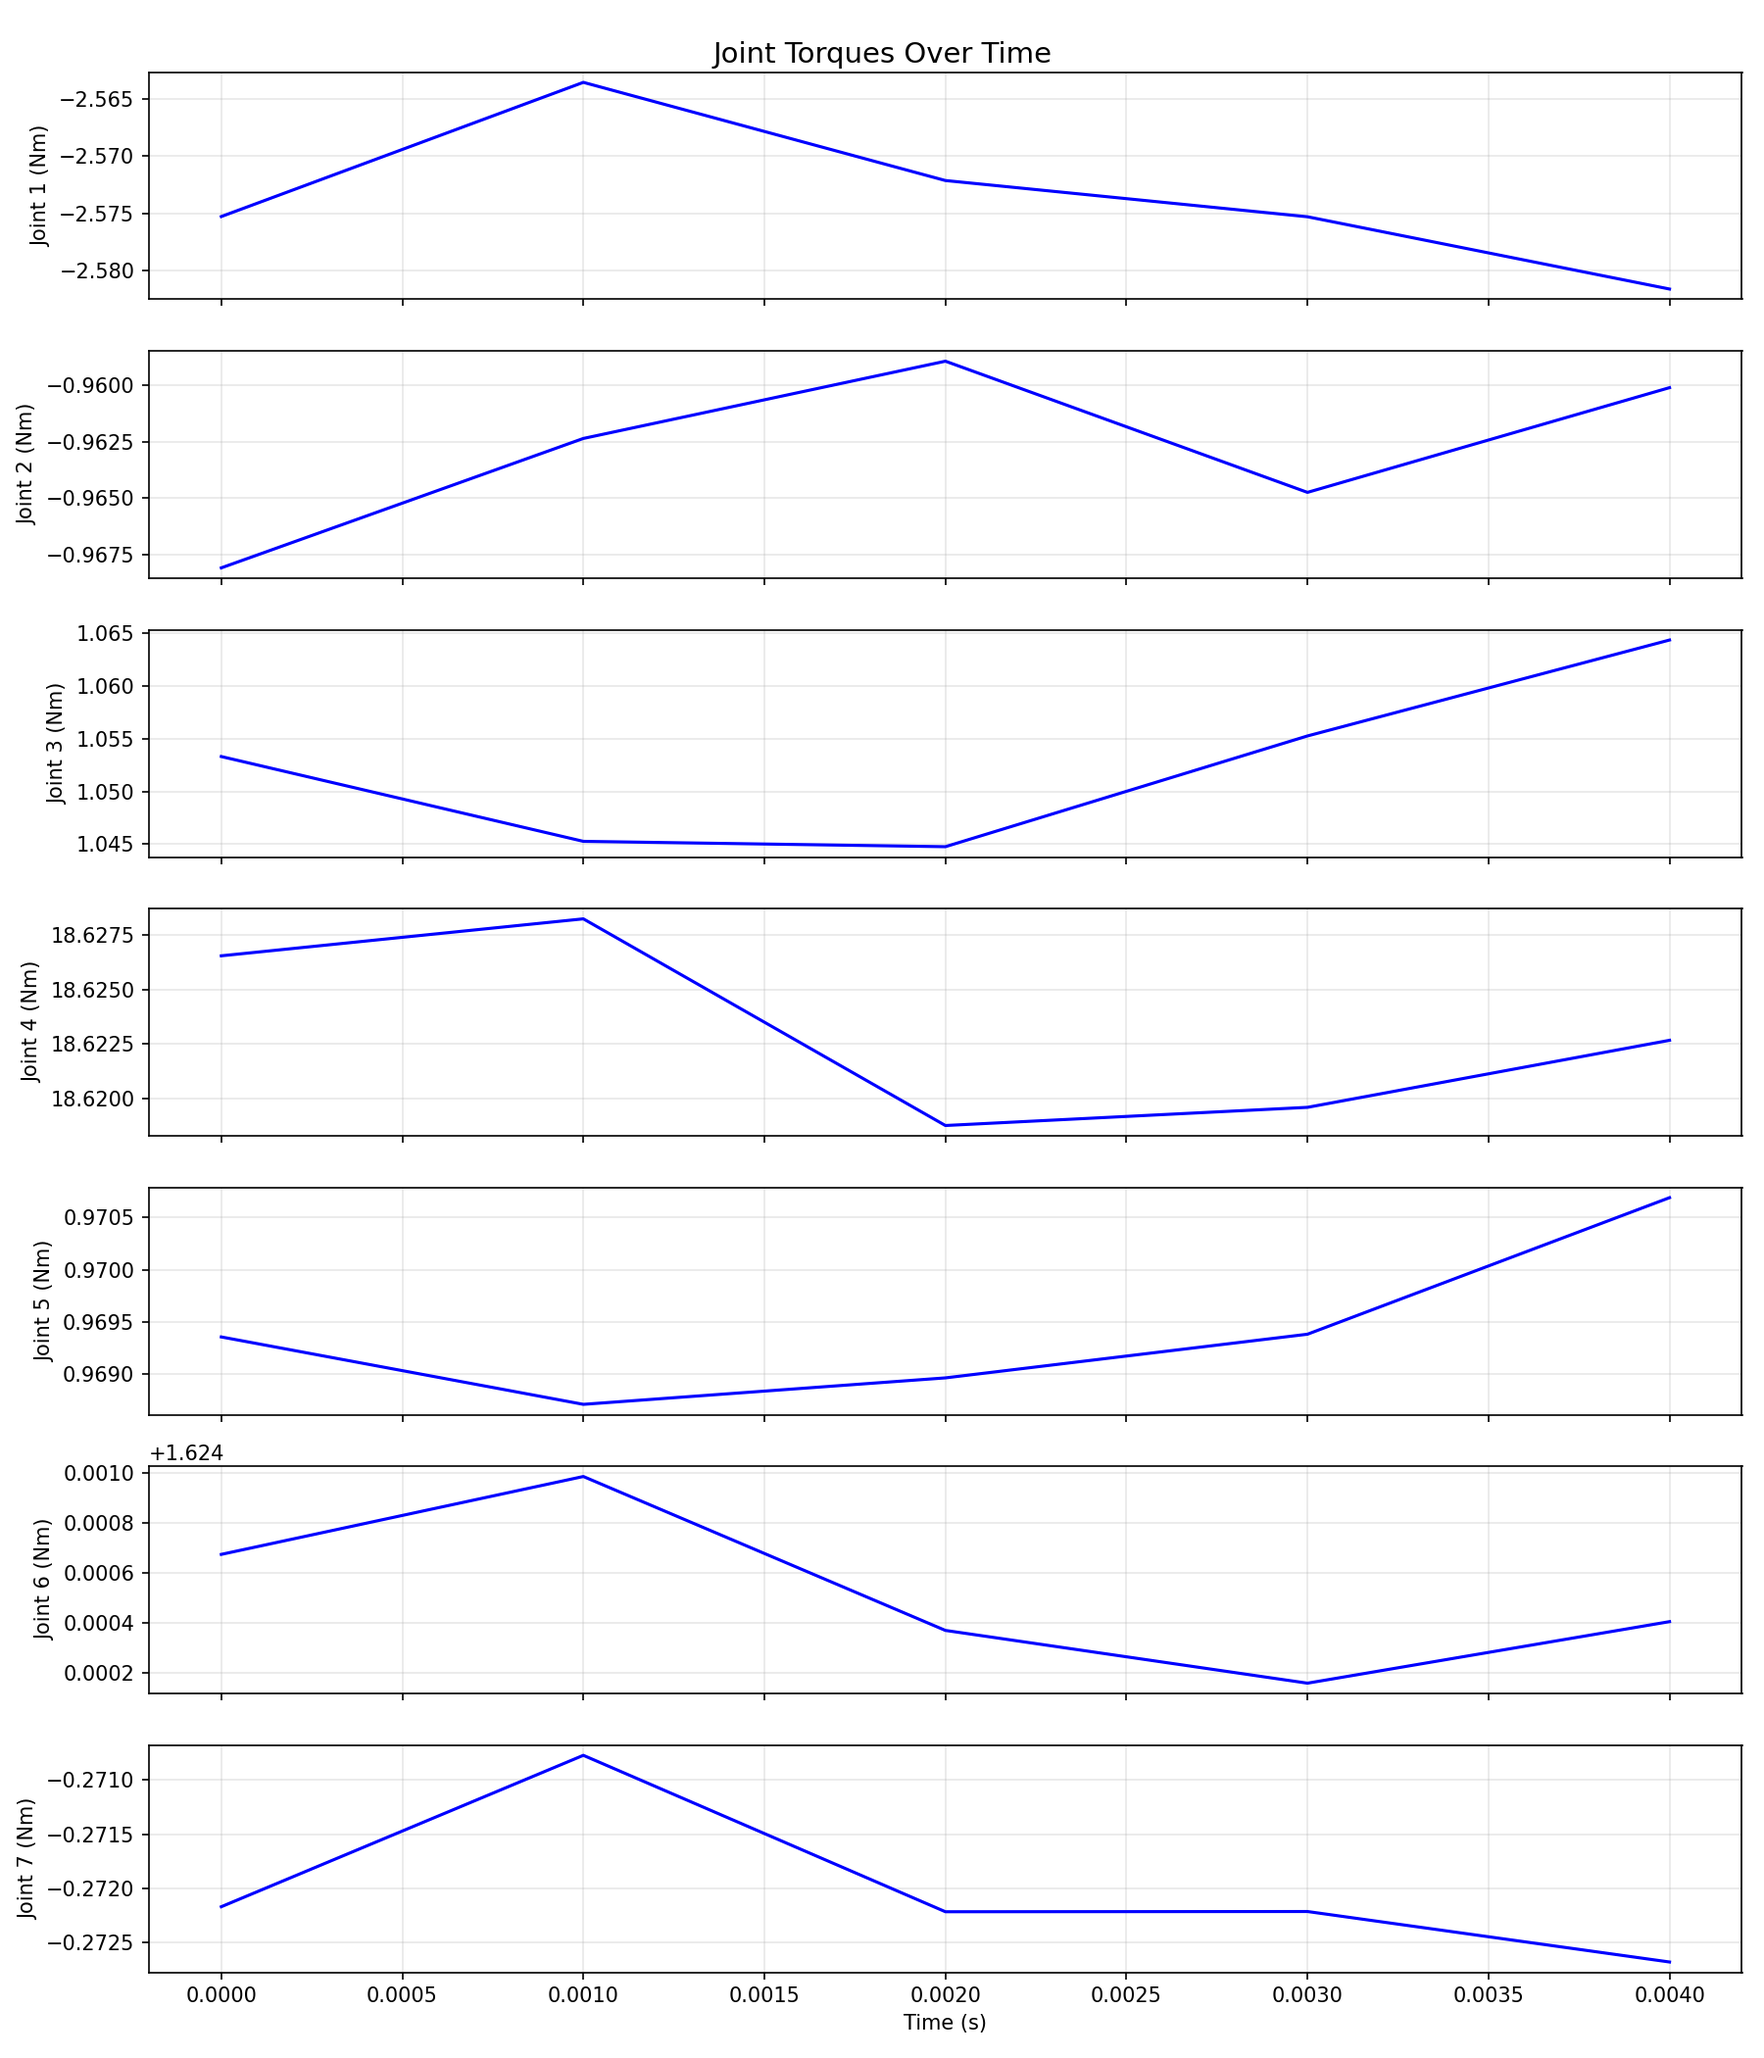
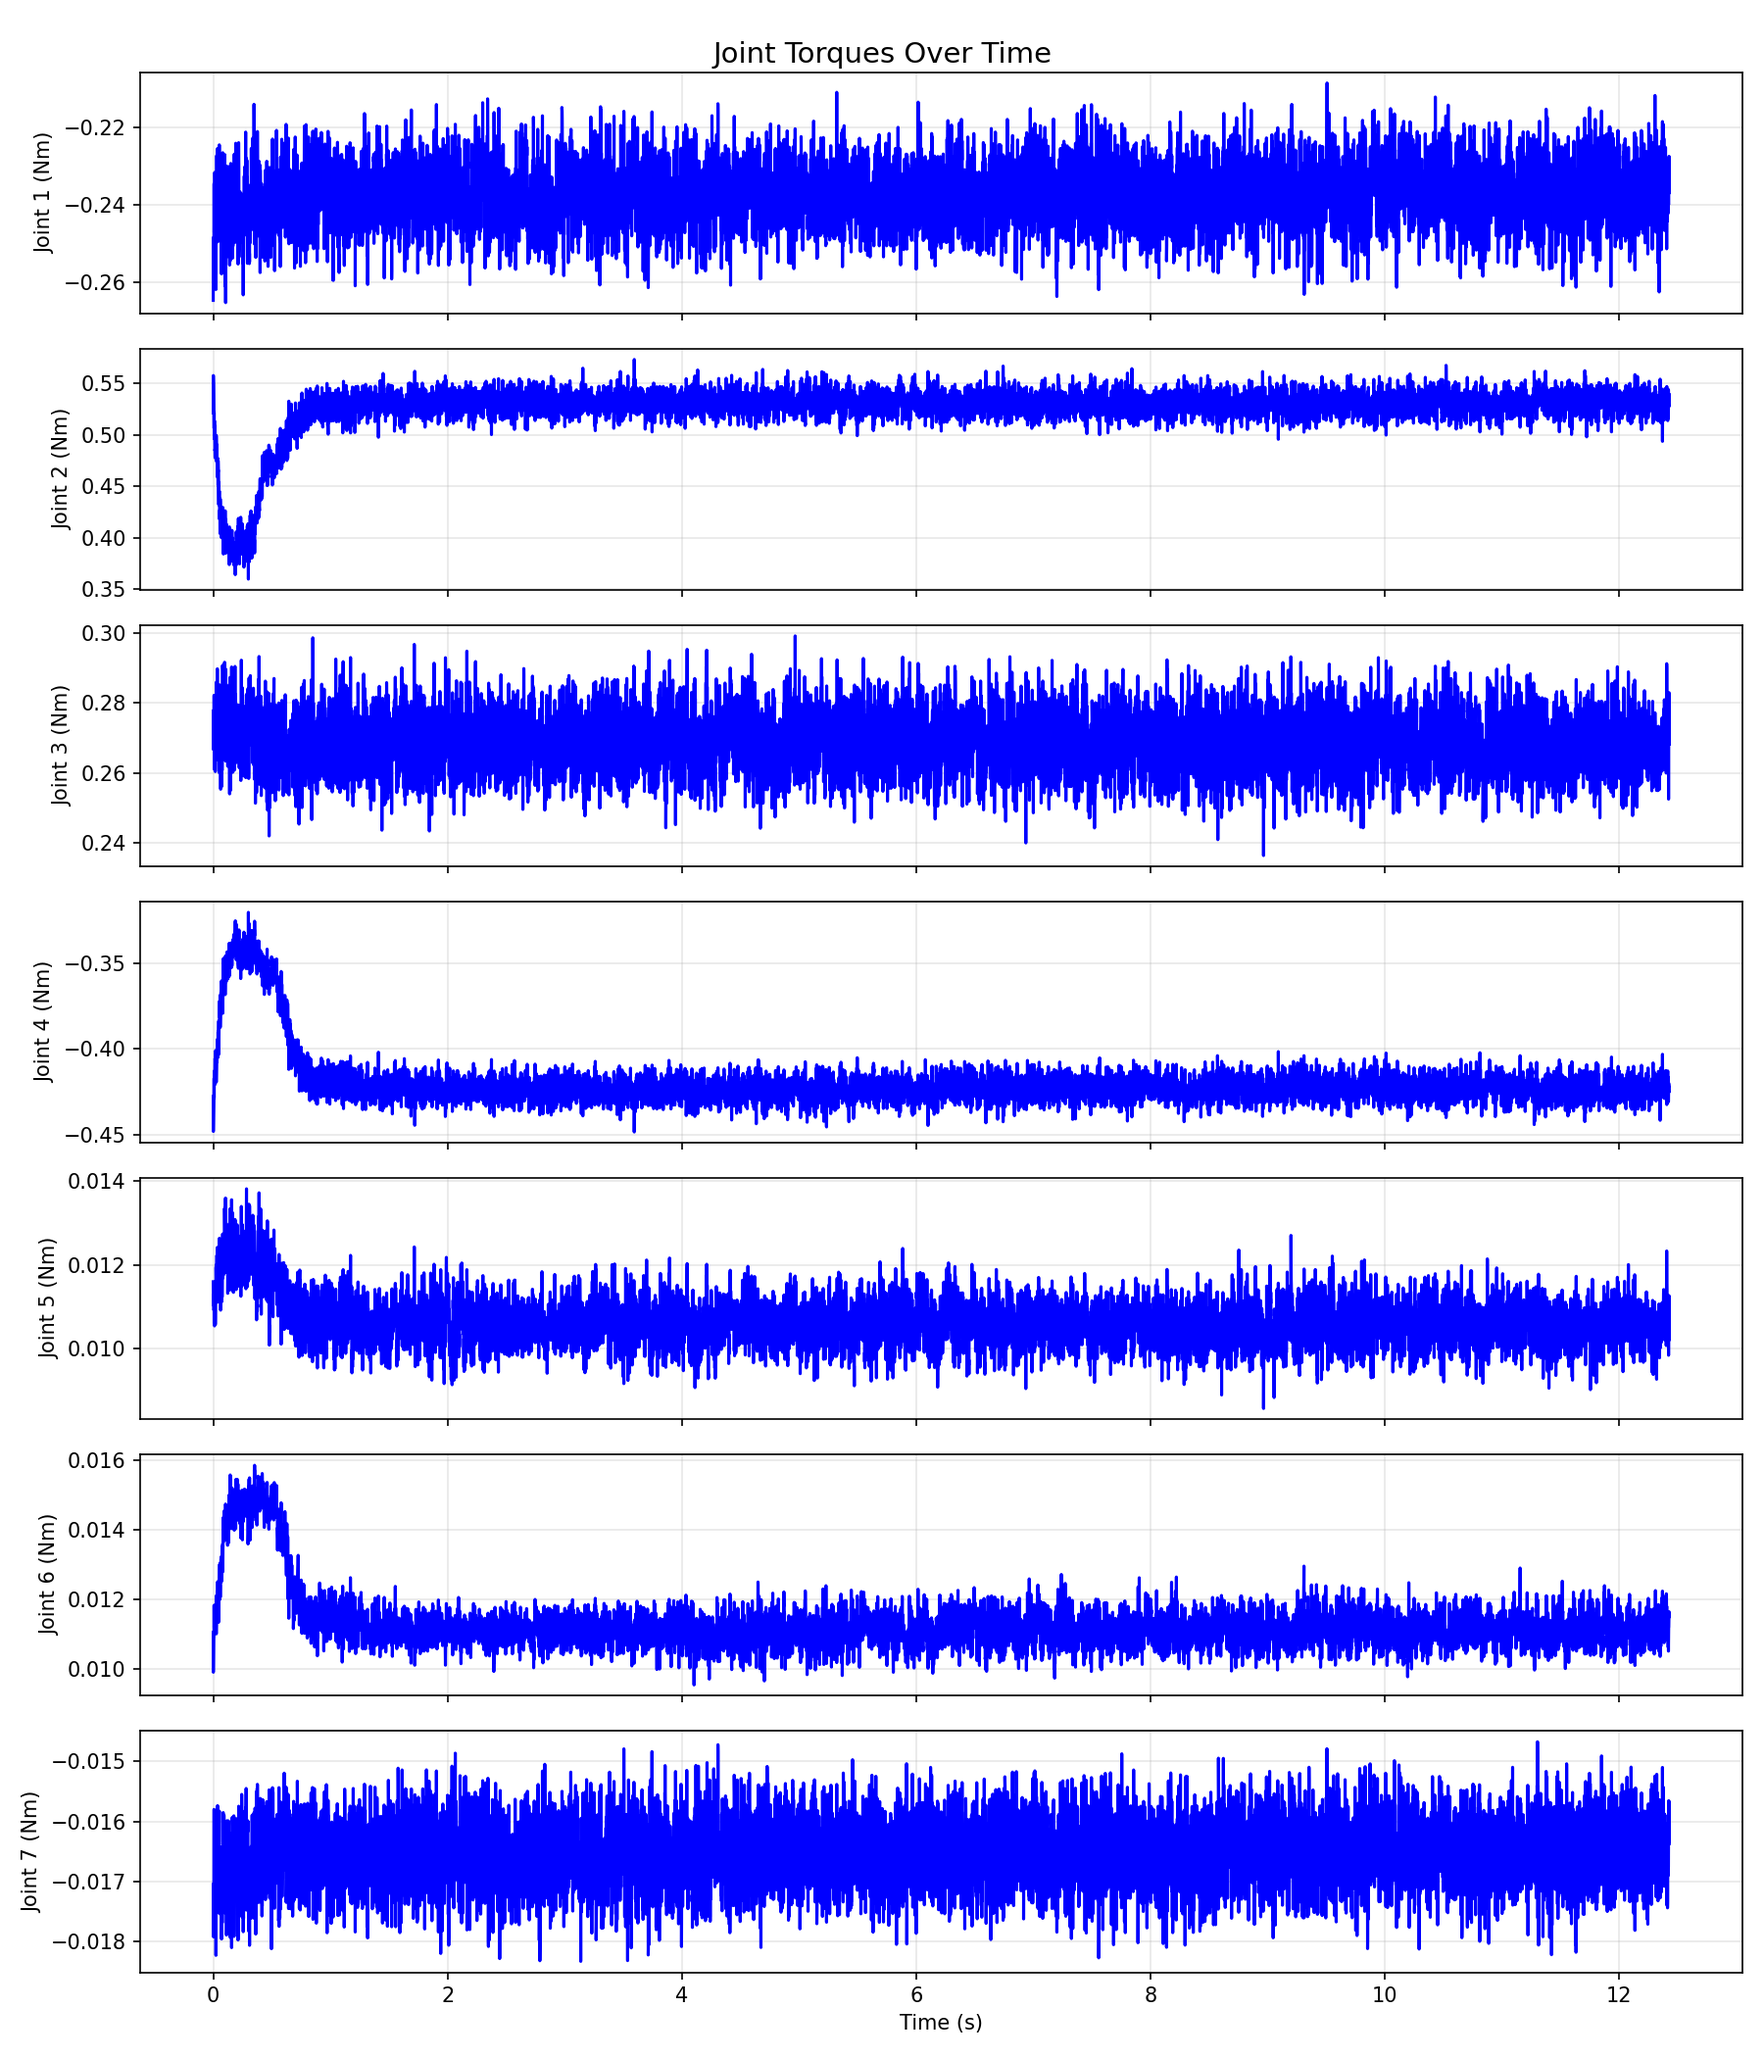
remove gravity compensation

diff --git a/hybrid_slope_libfranka_pin.py b/hybrid_slope_libfranka_pin.py
@@ -78,7 +78,7 @@ class ControllerConfig:
     """Configuration parameters shared across all controllers."""
     # Simulation parameters
     dt: float = 0.001 # only for result plotting
-    gravity_compensation: bool = True
+    gravity_compensation: bool = False
 
     # Circle drawing parameters
     circle_center: np.ndarray = None
@@ -907,7 +907,7 @@ def main() -> None:
                 # ============================================================
                 # Apply Control and Step Simulation
                 # ============================================================
-                logging.info("tau: %s", np.round(tau, 4))
+                # logging.info("tau: %s", np.round(tau, 4))
                 torque_cmd = Torques(tau.tolist())
                 active_control.writeOnce(torque_cmd)
 

diff --git a/joint_position_swb.py b/joint_position_swb.py
@@ -75,6 +75,10 @@ def main() -> int:
                 logging.info("Last commanded torques from controller: %s", np.round(state.tau_J_d, 4).tolist())
             except (AttributeError, TypeError):
                 print("  Last commanded torques from controller: <not available>")
+            try:
+                logging.info("Measured link-side joint torques: %s", np.round(state.tau_J, 4).tolist())
+            except (AttributeError, TypeError):
+                print("  Measured link-side joint torques: <not available>")
             dt = duration.to_sec()
             t += dt
 
